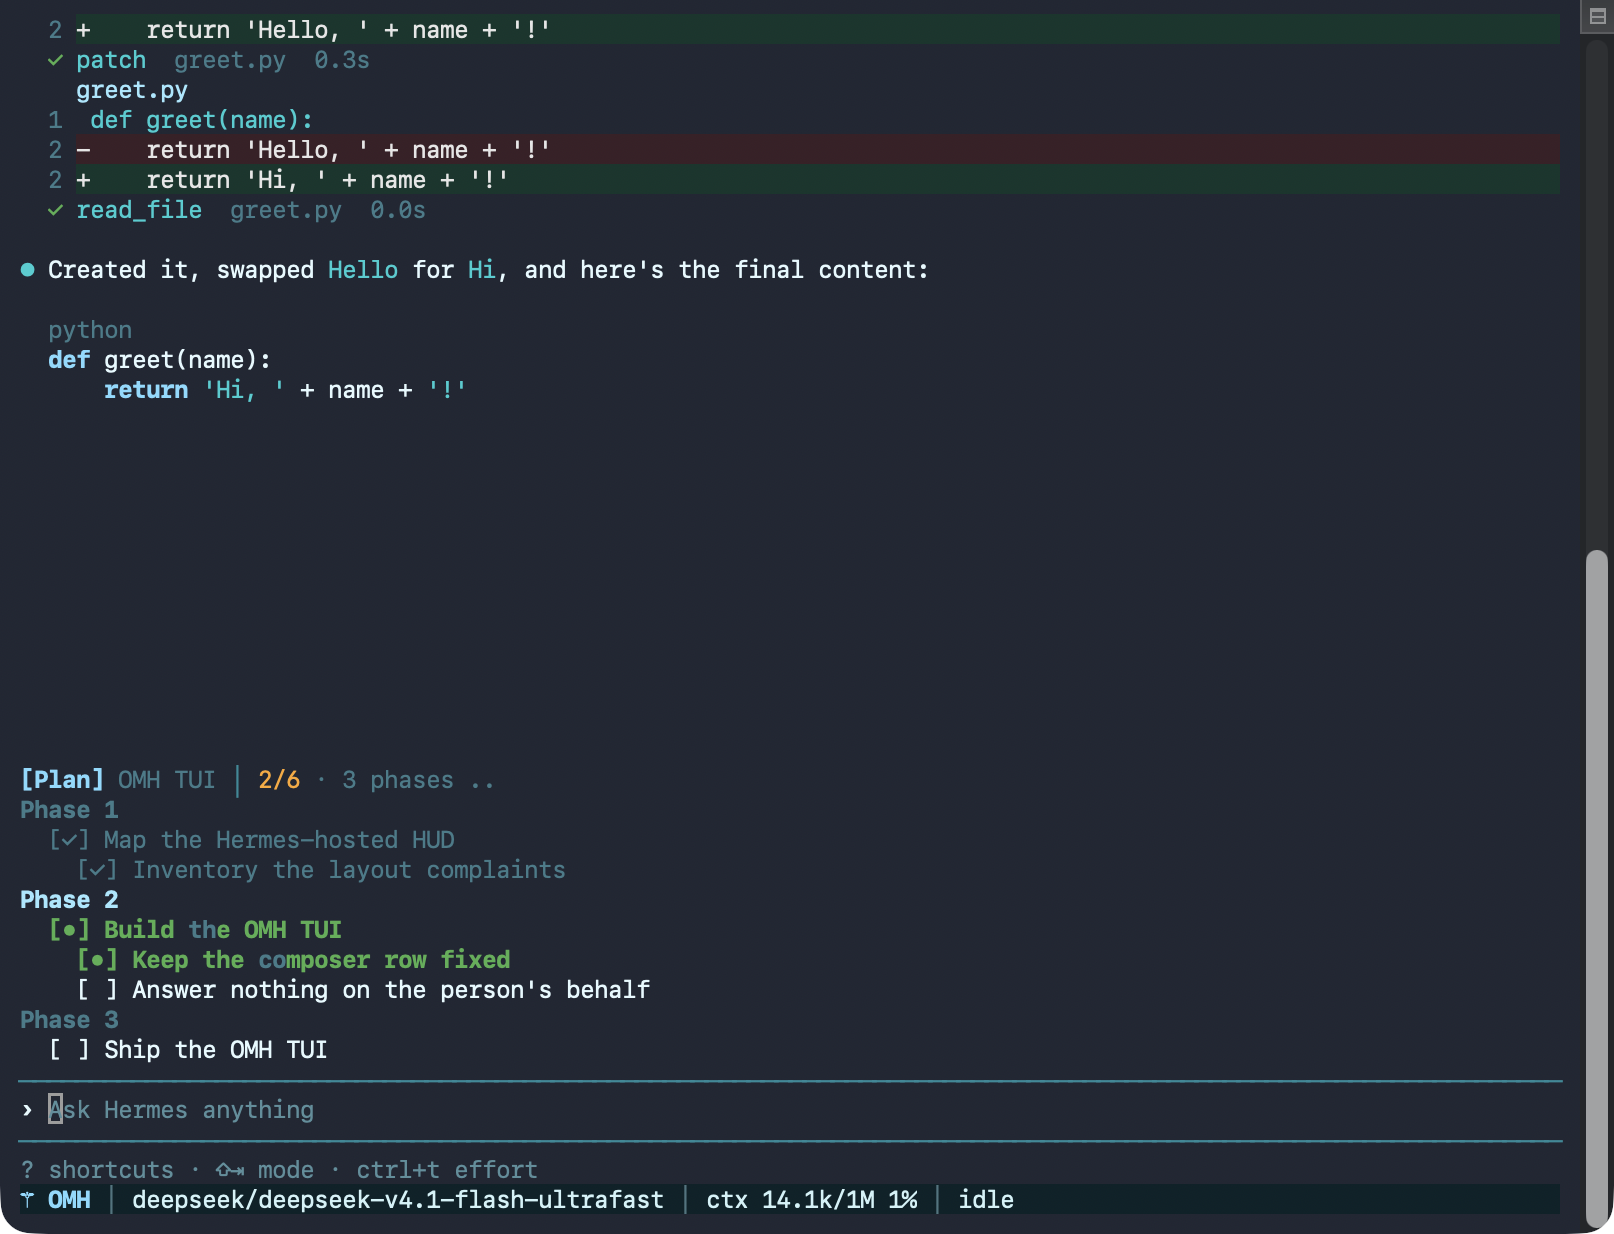
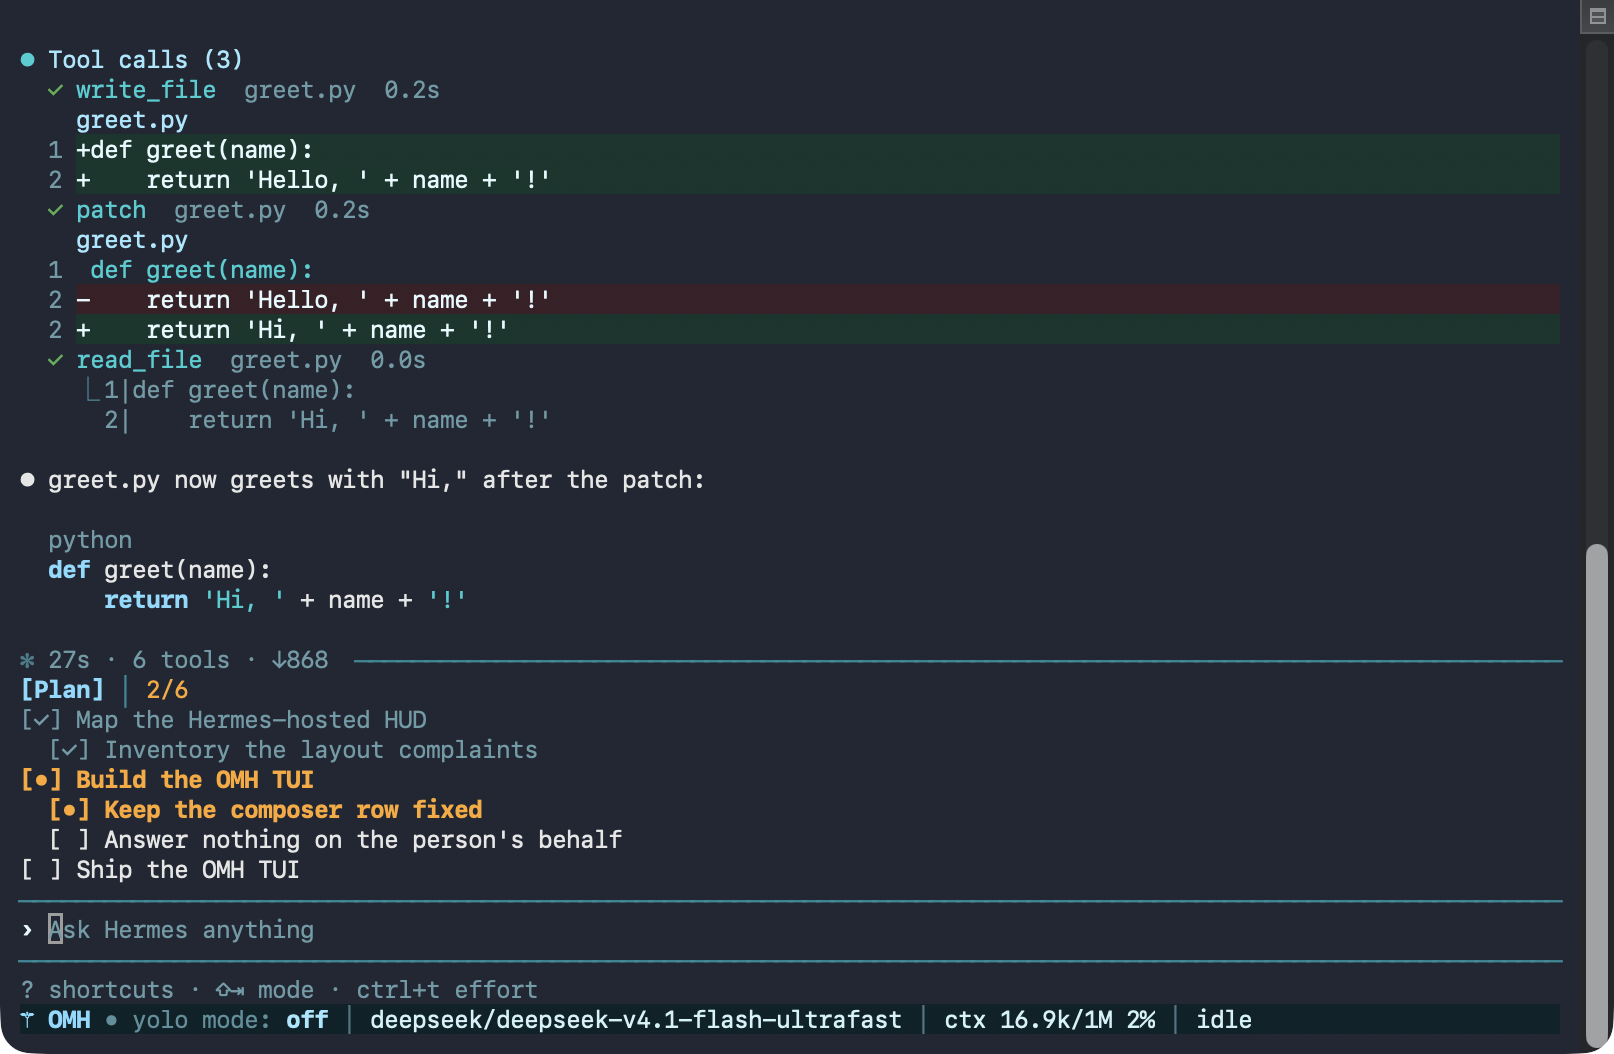
docs(readme): show the OMH TUI's choice lists, bands and light terminal in four real captures
The README's two OMH TUI screenshots were taken before this round: the
approval shot still showed the prompt under Hermes' question and had no
green or red outcome bands, and the turn shot carried a blank gap under
the done line and a `parallel shot x1` badge that this branch removes.
The four captures are real Terminal.app windows driven in tmux over a
throwaway HERMES_HOME (og provider, deepseek-v4.1-flash-ultrafast), with
the terminal's background reported through OSC 11: the turn (diff bands,
code, plan panel), the approval (choices in place of the prompt, deny
highlighted, a denied command on a red band and an allowed one on a green
band), a clarify with numbered choices and the type-your-own row under the
start logo, and the same approval on a light profile. The dark approval
shot is cropped above its first rows, which held a demo-home `skill_view`
miss. The feature sentence gains the choice lists.

Constraint: Published captures must not show the owner's username or home path; every shot's pane text was grepped for it and the demo cwd moved to /Users/Shared/omh-demo or ~/omh-demo
Rejected: Keeping the old two-shot table | it shows a prompt under the approval and no bands, which this branch no longer draws
Confidence: high
Scope-risk: narrow
Directive: Retake these with .omc/research/omh-tui/capture/scenes.py on a later head; never bring Terminal.app to the front while capturing (it took the owner's keystrokes once)
[…]

diff --git a/README.md b/README.md
@@ -334,7 +334,8 @@ slash command's output in the transcript, runs a `!` line in Hermes' shell
 (never sent to the model), shares your input history with `hermes --tui`
 (Ctrl+R searches it), rewinds to an earlier prompt (Esc Esc or `/rewind`),
 lets you interrupt (`x`) or steer (`s`) one subagent from the agent list,
-and marks outcomes on green and red bands (the light colours and the bands
+lists an approval's or a question's choices where the prompt was, and marks
+outcomes on green and red bands (the light colours and the bands
 need a terminal that reports its background, or `/theme light|dark`). Bare
 `hermes` keeps opening Hermes' own terminal:
 
@@ -349,8 +350,18 @@ omh
       <sub><b>An edit, its diff, and the plan above the prompt.</b></sub>
     </td>
     <td width="50%" align="center">
-      <img src="assets/omh-tui-approval.png" alt="The OMH TUI asking before a recursive delete, with deny selected by default"><br>
-      <sub><b>Hermes asks; you decide. Deny is the default.</b></sub>
+      <img src="assets/omh-tui-approval.png" alt="The OMH TUI asking before a recursive delete: the choices sit where the prompt was, deny highlighted, under a denied command on a red band and an allowed one on a green band"><br>
+      <sub><b>Hermes asks; you pick. Deny is the default.</b></sub>
+    </td>
+  </tr>
+  <tr>
+    <td width="50%" align="center">
+      <img src="assets/omh-tui-clarify.png" alt="The OMH TUI at start, with its logo, while Hermes asks a question with numbered choices and a row to type your own answer"><br>
+      <sub><b>A question's choices replace the prompt; type to answer instead.</b></sub>
+    </td>
+    <td width="50%" align="center">
+      <img src="assets/omh-tui-light.png" alt="The same approval on a light terminal, with light red and green bands"><br>
+      <sub><b>On a light terminal, light bands.</b></sub>
     </td>
   </tr>
 </table>
